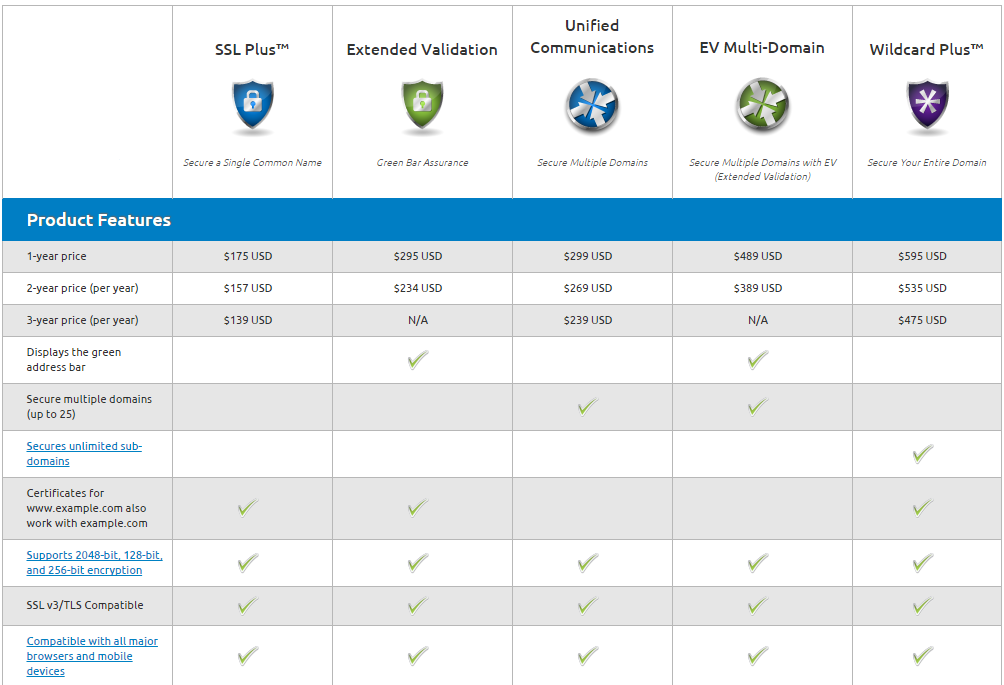
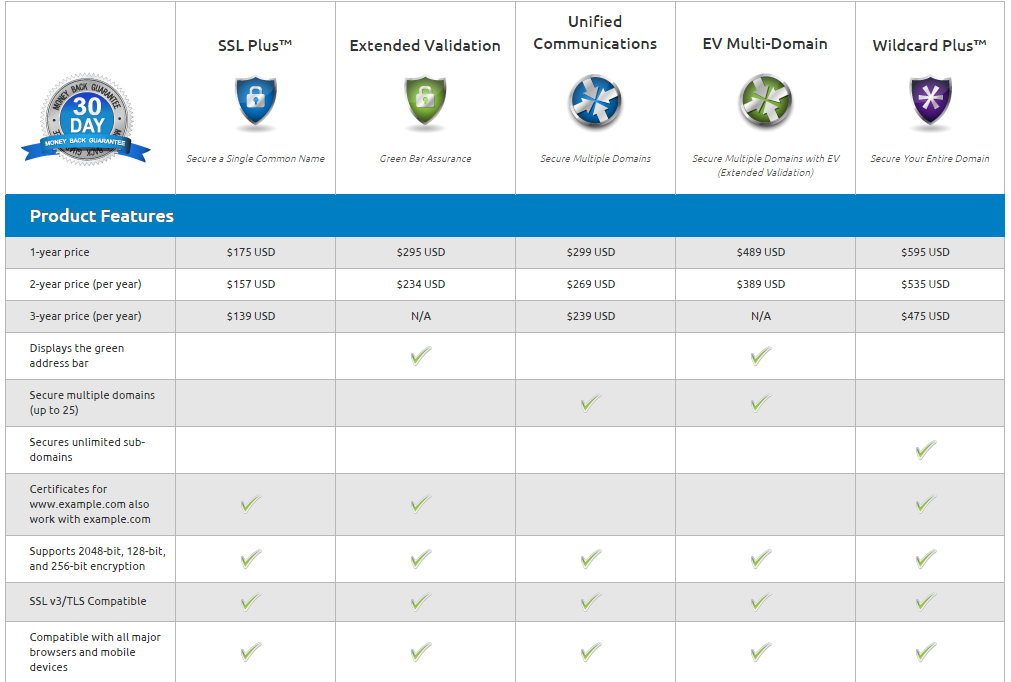
new ssl kb
new ssl kb

diff --git a/SSL-certificate-types-and-pricing.md b/SSL-certificate-types-and-pricing.md
@@ -1,0 +1,68 @@
+###What is the difference between SSL certificates?
+
+A Standard SSL (SSL Plus) covers:
+
+- https://www.domain.com
+- https://domain.com
+
+----------
+
+An Extended Validation SSL (EV) covers:
+
+- https://www.domain.com
+- https://domain.com
+
+----------
+
+An Unified Communications Certificate (SANS UCC Certificate) covers:
+
+- https://www.domain.com
+- https://mail.domain.net
+- https://www.domain2.com
+- https://www.domain3.net
+
+
+**Includes 4 hostnames. It's $49 per additional hostname**
+
+----------
+
+
+An Extended Validation (EV) Multi-Domain certificate covers:
+
+- https://www.domain.com
+- https://mail.example.net
+- https://dev.anotherdomain.com
+
+
+**Includes 3 hostnames. It's $99 per additional hostname**
+
+----------
+
+
+A Wildcard SSL certificate covers:
+
+- https://*.domain.com 
+- https://domain.com
+
+----------
+
+#What about pricing?
+
+<img src="https://raw.githubusercontent.com/GearHost/docs/master/Images/sslcomparison.png"  />
+
+----------
+
+
+###What's the difference between a Standard SSL and an EV ?
+The main difference is the lock that's displayed on your browser. An EV SSL requires more strict verification that you're indeed the company owner.
+
+Standard SSL:
+<img src="https://raw.githubusercontent.com/GearHost/docs/master/Images/sslgoogle.png" />
+
+EV SSL:
+<img src="https://raw.githubusercontent.com/GearHost/docs/master/Images/sslpaypal.png" />
+
+
+**Can I receive a refund within 30 days?**
+
+Yes! No questions asked, we offer a 30 day money back guarantee.
